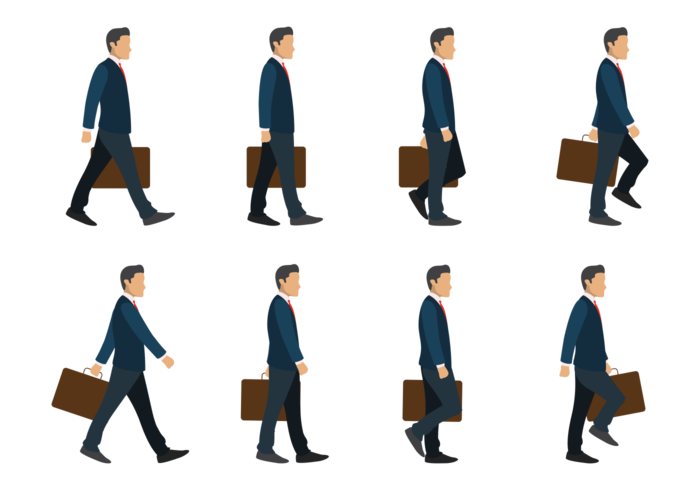
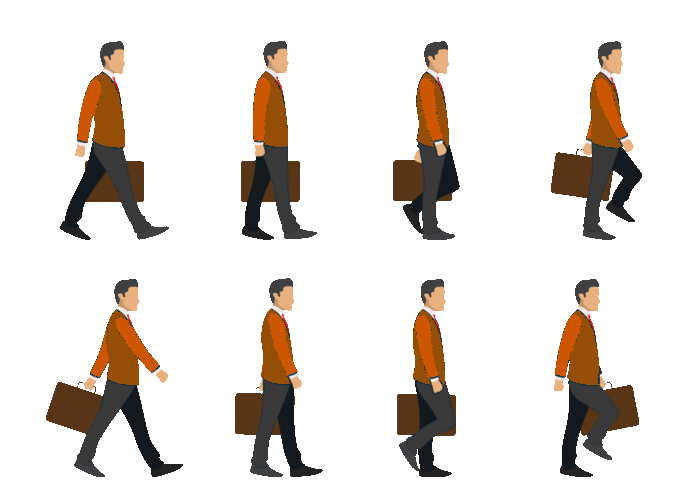
changed enemy and unit sprites

diff --git a/js/main_state.js b/js/main_state.js
@@ -39,8 +39,11 @@ mascot_raid.main_state.prototype = {
         game.load.spritesheet('place_buttons', 'assets/placehold_buttons.png', 64, 64, 4);
         game.load.spritesheet('place_unit', 'assets/placehold_unit.png', 64, 64, 3);
         game.load.spritesheet('student', 'assets/student.png', 108, 140, 8);
+        game.load.spritesheet('ene_student', 'assets/ene_student.png', 108, 140, 8);
         game.load.spritesheet('faculty', 'assets/faculty.png', 175, 245, 8);
+        game.load.spritesheet('ene_faculty', 'assets/ene_faculty.png', 175, 245, 8);
         game.load.spritesheet('football_player', 'assets/football_player.png', 37.75, 60, 8);
+        game.load.spritesheet('ene_football_player', 'assets/ene_football_player.png', 37.75, 60, 8);
         game.load.image('bevo', 'assets/bevo.png');
         game.load.image('tower', 'assets/tower.png');
         game.load.image('truck_body', 'assets/truck/full.png');
@@ -329,41 +332,45 @@ function collisionHandler4(unit, base) {
 
 function deploy_lvl1() {
     //console.log("units made");
-    var e = enemy.create(2200 + Math.random() * 400, game.world.height - 300 + Math.random() * 10, 'lvl1', 0);
+    var e = enemy.create(2200 + Math.random() * 400, game.world.height - 330 + Math.random() * 10, 'ene_student', 0);
     e.health = 500;
     e.attack = 5;
     e.frame = 0;
     e.body.velocity.x = -200;
-    e.animations.add('left', [0, 1, 2, 3, 4, 5, 6, 7, 8, 9, 10, 11, 12, 13, 14, 15], 16, true);
+    e.scale.setTo(.5, .5);
+    e.scale.x *= -1;
+    e.animations.add('left', [0, 1, 2, 3, 4, 5, 6, 7], 8, true);
     e.animations.play('left');
 
 }
 
 function deploy_lvl2() {
     //console.log("units made");
-    var e = enemy.create(2200 + Math.random() * 400, game.world.height - 325 + Math.random() * 10, 'lvl2', 0);
+    var e = enemy.create(2200 + Math.random() * 400, game.world.height - 325 + Math.random() * 10, 'ene_faculty', 0);
     e.health = 1000;
     e.attack = 15;
     e.anchor.setTo(.5, .5);
-    e.scale.x *= -1;
     e.frame = 0;
     e.body.velocity.x = -200;
-    e.animations.add('left', [10, 11, 12, 13, 14, 15, 16], 7, true);
-    e.animations.play('left');
+    e.scale.setTo(.4, .4);
+    e.scale.x *= -1;
+    e.animations.add('run', [0, 1, 2, 3, 4, 5, 6, 7], 8, true);
+    e.animations.play('run');
 
 }
 
 function deploy_lvl3() {
     //console.log("units made");
-    var e = enemy.create(2200 + Math.random() * 400, game.world.height - 300 + Math.random() * 10, 'lvl3', 0);
+    var e = enemy.create(2200 + Math.random() * 400, game.world.height - 300 + Math.random() * 10, 'ene_football_player', 4);
     e.health = 1500;
     e.attack = 50;
     e.anchor.setTo(.5, .5);
+    e.scale.setTo(2, 2);
     e.scale.x *= -1;
     e.frame = 0;
     e.body.velocity.x = -200;
-    e.animations.add('left', [38, 39, 40], 3, true);
-    e.animations.play('left');
+    e.animations.add('run', [3, 4, 5, 6, 7], 5, true);
+    e.animations.play('run');
 
 }
 
